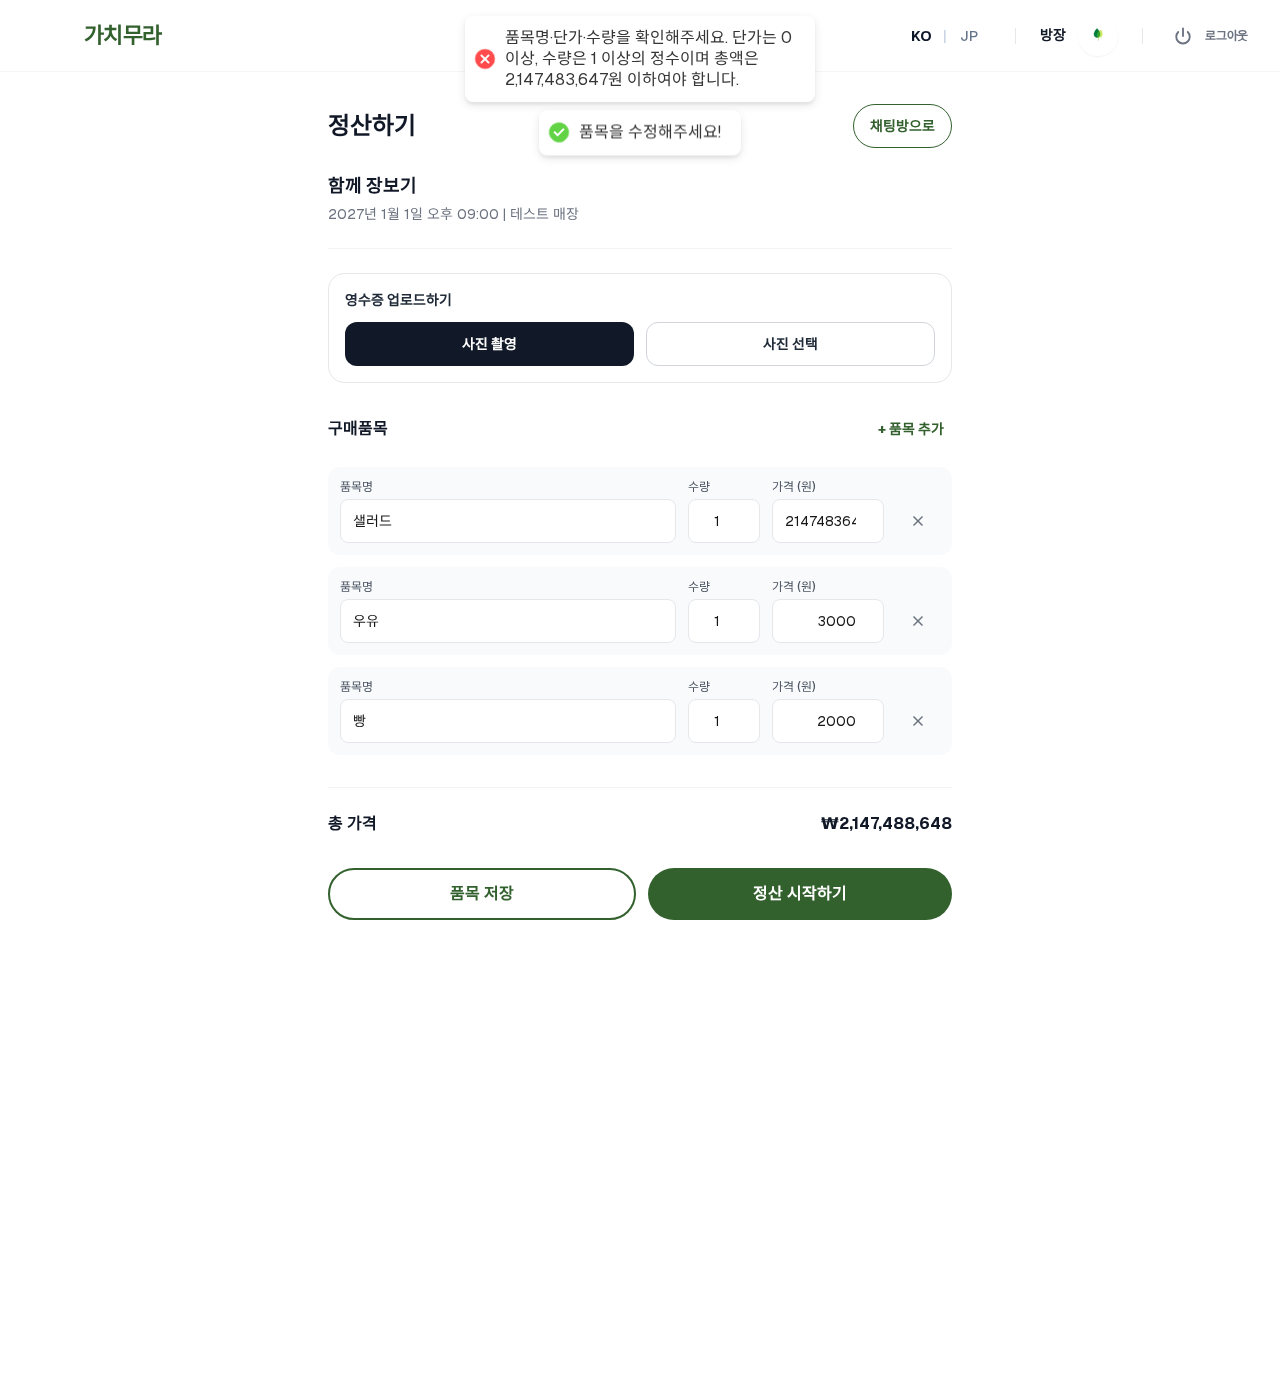
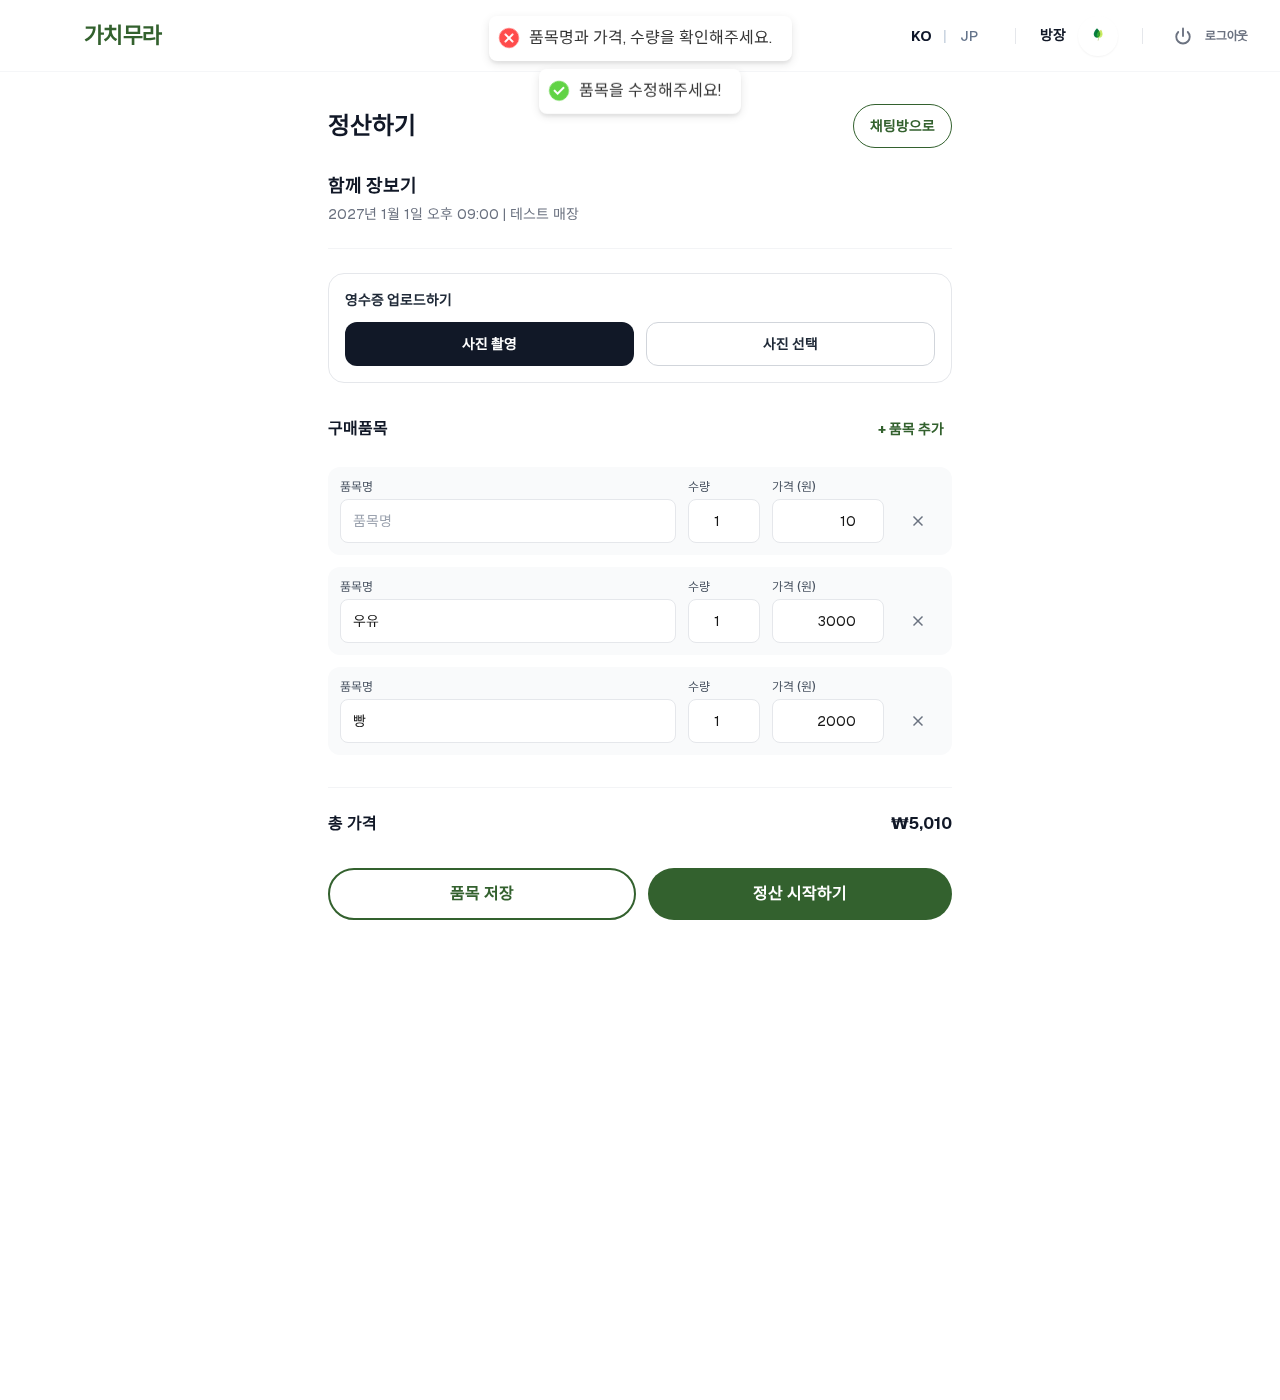
fix: 정산 입력 오류 안내 문구 간소화

diff --git a/components/settlement/SettlementClient.tsx b/components/settlement/SettlementClient.tsx
@@ -92,14 +92,14 @@ export default function SettlementClient({
     amountPending: "금액 정보를 확인 중입니다.", noTransfer: "송금 없음", hostOnly: "본인 부담 · 송금 없음",
     transferGuide: "채팅방에 공유된 정산 안내를 확인해주세요. 실제 송금은 은행 앱에서 진행하고 방장이 입금을 확인합니다.",
     refreshFailed: "저장은 완료됐지만 최신 상태를 불러오지 못했어요. 잠시 후 다시 확인할게요.",
-    invalidItems: "품목명·단가·수량을 확인해주세요. 단가는 0 이상, 수량은 1 이상의 정수이며 총액은 2,147,483,647원 이하여야 합니다.",
+    invalidItems: "품목명과 가격, 수량을 확인해주세요.",
   } : {
     saveFirst: "自分の選択を先に保存してください。", missing: "選択した人がいない品目が{count}件あります。",
     noneSelected: "まだ誰も選択していません", hostShare: "自分の負担額", myShare: "自分の確定金額",
     amountPending: "金額を確認しています。", noTransfer: "送金不要", hostOnly: "自分の負担・送金不要",
     transferGuide: "チャットに共有された支払案内をご確認ください。送金は銀行アプリで行い、ホストが入金を確認します。",
     refreshFailed: "保存は完了しましたが最新の状態を取得できませんでした。しばらくしてから再確認します。",
-    invalidItems: "商品名・単価・数量をご確認ください。単価は0以上、数量は1以上の整数、合計は2,147,483,647ウォン以下で入力してください。",
+    invalidItems: "商品名・価格・数量を確認してください。",
   };
 
   const [settlement, setSettlement] = useState<Settlement | null>(initialSettlement);
